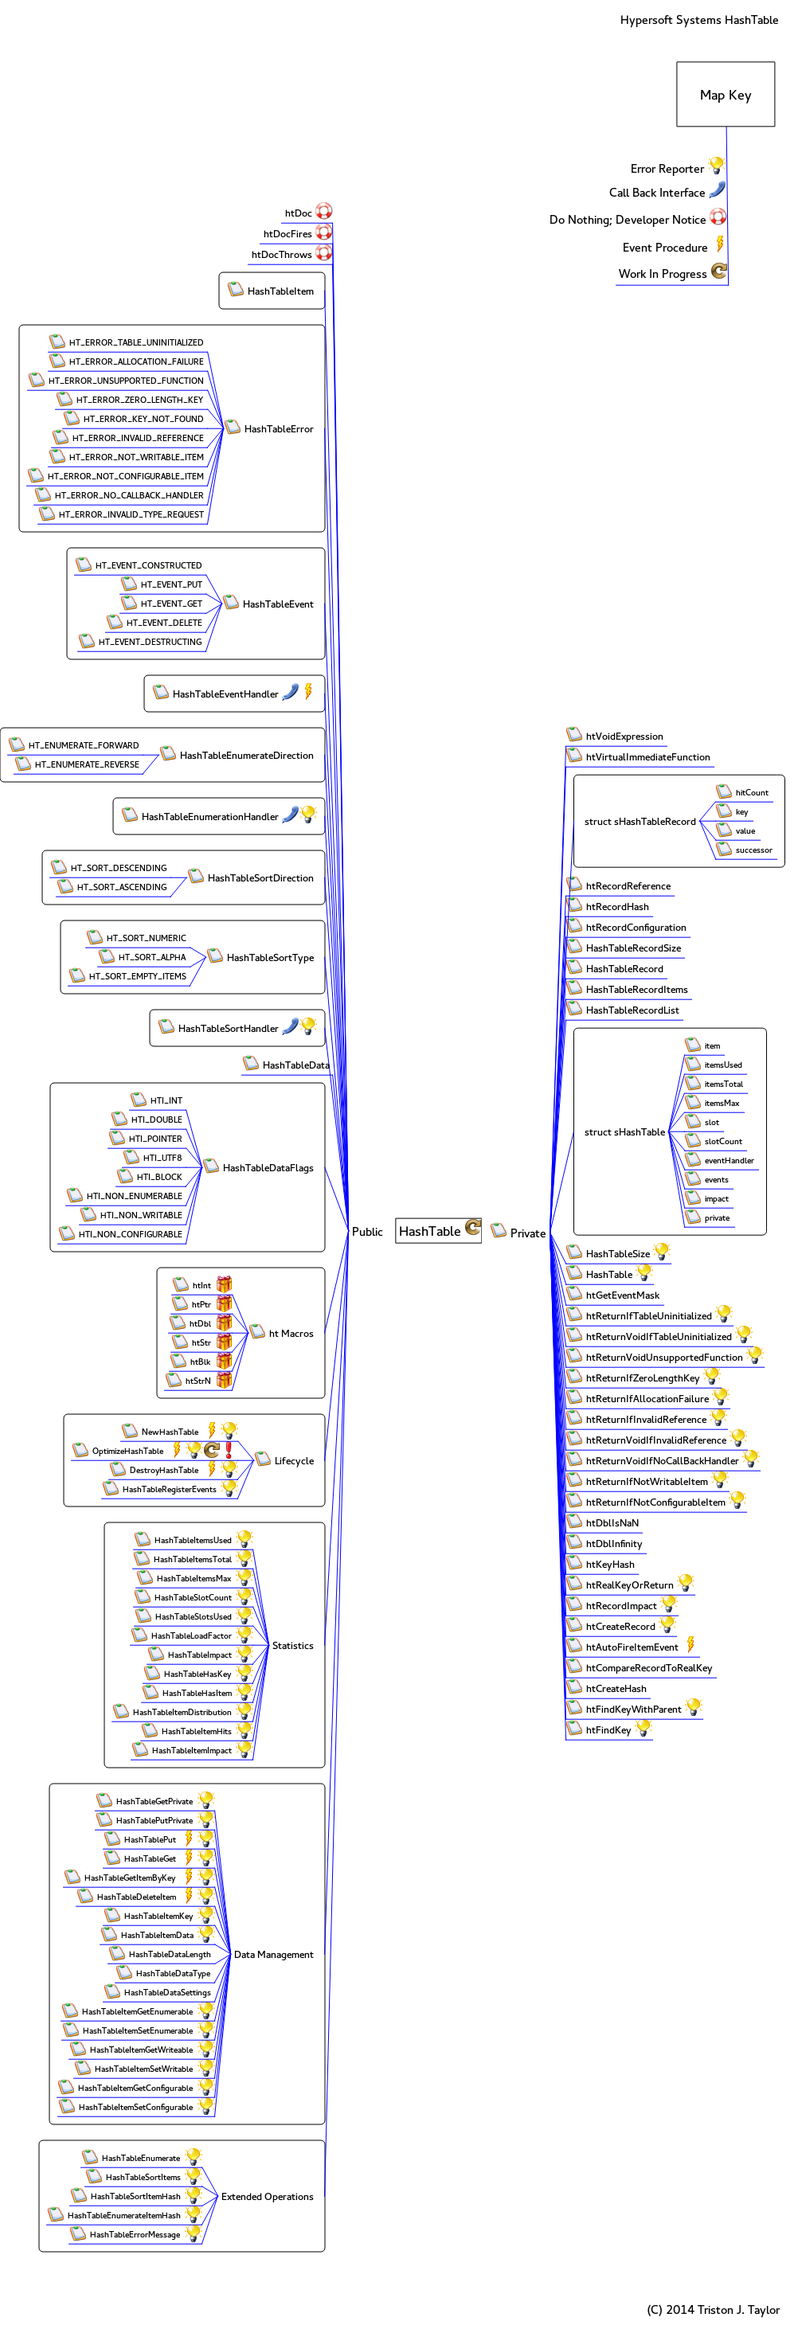
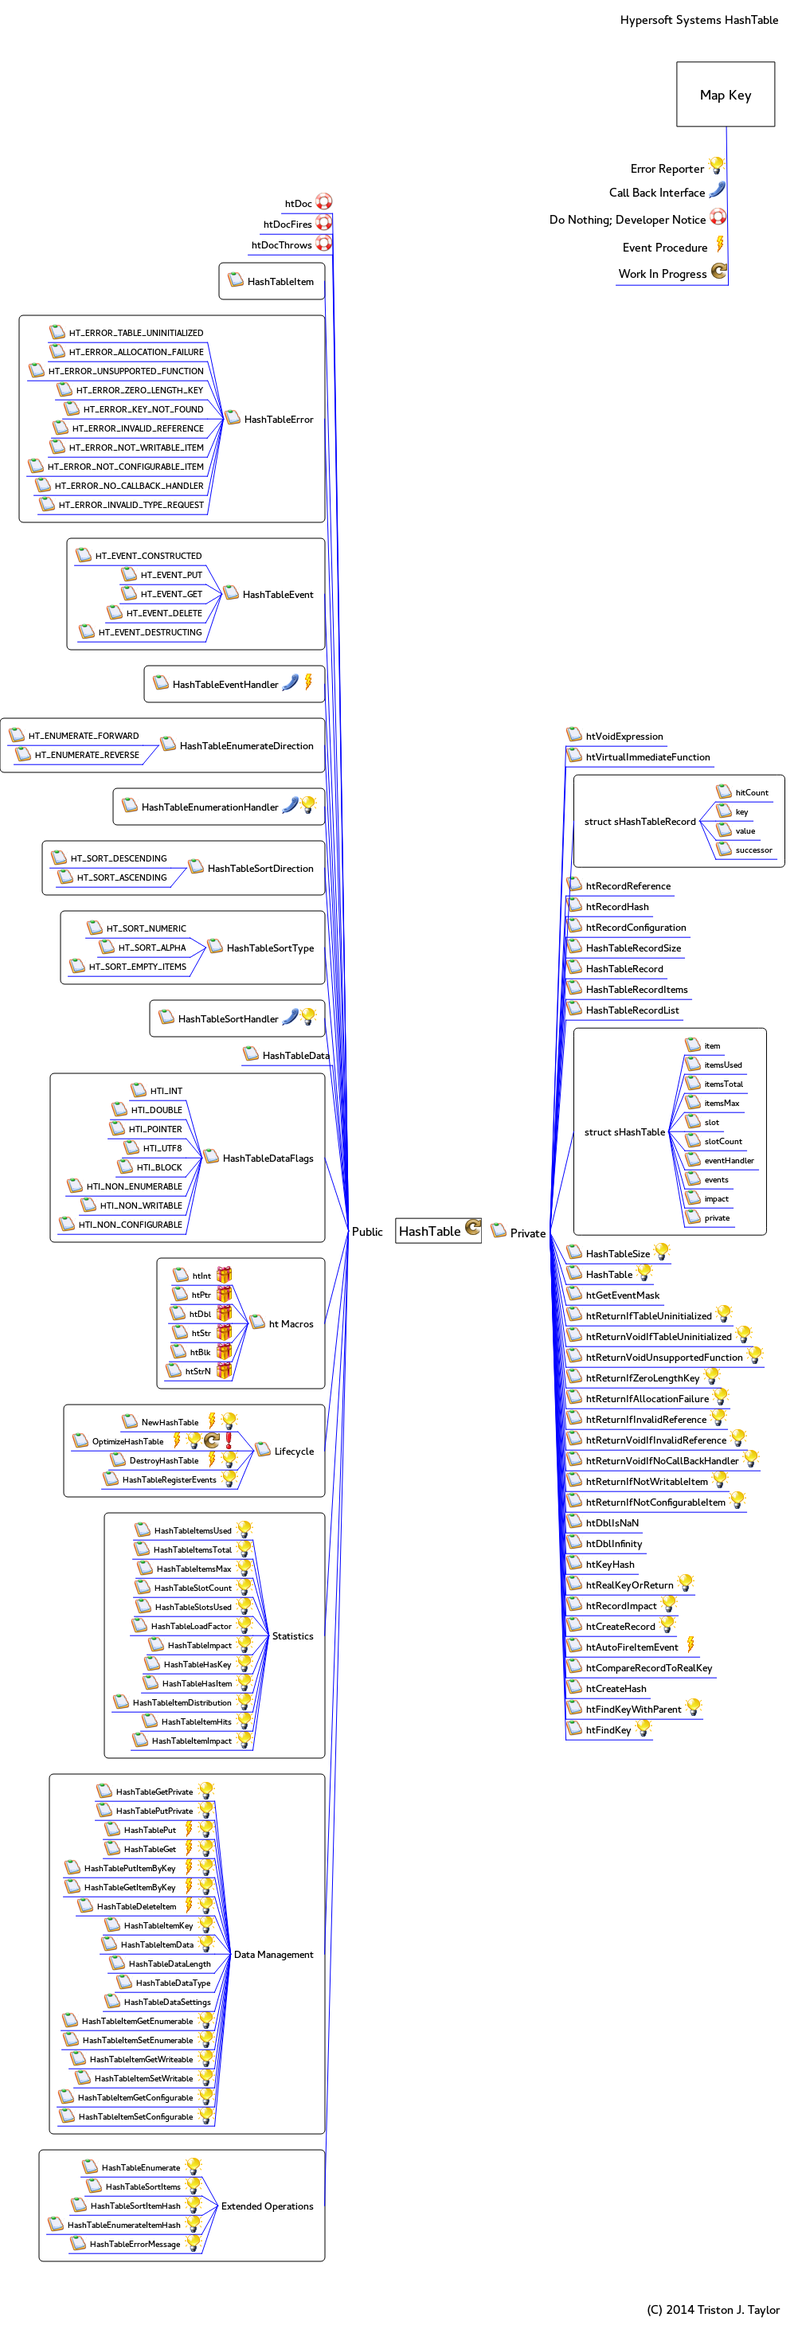
kv api meld level III

Changed region(s): [[0.0, 0.0622, 0.431, 0.9644]]

diff --git a/HashTable.html b/HashTable.html
@@ -377,67 +377,72 @@ HashTableItem HashTablePut(HashTable ht, size_t keyLength, double key, HashTable
 HashTableItem HashTableGet(HashTable ht, size_t keyLength, double key, HashTableDataFlags hint)<br/><br/>Get's an item reference by its key.<br/>
 </td></tr></table>
 </li>
-<li><span class='vym-branch3'  id='mc:1,bo:0,bo:17,bo:4'>HashTableGetItemByKey</span>
+<li><span class='vym-branch3'  id='mc:1,bo:0,bo:17,bo:4'>HashTablePutItemByKey</span>
+<table class="vym-note"><tr><td>
+HashTableItem HashTablePutItemByKey(HashTable hashTable, HashTableData realKey, size_t valueLength, double value, HashTableDataFlags valueHint)<br/><br/>Put a value into the hash table by a key reference.<br/>
+</td></tr></table>
+</li>
+<li><span class='vym-branch3'  id='mc:1,bo:0,bo:17,bo:5'>HashTableGetItemByKey</span>
 <table class="vym-note"><tr><td>
 HashTableItem HashTableGetItemByKey(HashTable hashTable, HashTableData realKey)<br/><br/>Retrieve an item index by it's key pointer.
 </td></tr></table>
 </li>
-<li><span class='vym-branch3'  id='mc:1,bo:0,bo:17,bo:5'>HashTableDeleteItem</span>
+<li><span class='vym-branch3'  id='mc:1,bo:0,bo:17,bo:6'>HashTableDeleteItem</span>
 <table class="vym-note"><tr><td>
 bool HashTableDeleteItem(HashTable ht, HashTableItem reference)<br/><br/>Removes an item from a hash table.
 </td></tr></table>
 </li>
-<li><span class='vym-branch3'  id='mc:1,bo:0,bo:17,bo:6'>HashTableItemKey</span>
+<li><span class='vym-branch3'  id='mc:1,bo:0,bo:17,bo:7'>HashTableItemKey</span>
 <table class="vym-note"><tr><td>
 HashTableData HashTableItemKey(HashTable hashTable, HashTableItem reference)<br/><br/>Returns a constant pointer to an item's key.<br/>
 </td></tr></table>
 </li>
-<li><span class='vym-branch3'  id='mc:1,bo:0,bo:17,bo:7'>HashTableItemData</span>
+<li><span class='vym-branch3'  id='mc:1,bo:0,bo:17,bo:8'>HashTableItemData</span>
 <table class="vym-note"><tr><td>
 HashTableData HashTableItemData(HashTable hashTable, HashTableItem reference)<br/><br/>Returns a constant pointer to an item's value.<br/>
 </td></tr></table>
 </li>
-<li><span class='vym-branch3'  id='mc:1,bo:0,bo:17,bo:8'>HashTableDataLength</span>
+<li><span class='vym-branch3'  id='mc:1,bo:0,bo:17,bo:9'>HashTableDataLength</span>
 <table class="vym-note"><tr><td>
 size_t HashTableDataLength(const HashTableData data)<br/><br/>Retrieves the length of the data reference.<br/>
 </td></tr></table>
 </li>
-<li><span class='vym-branch3'  id='mc:1,bo:0,bo:17,bo:9'>HashTableDataType</span>
+<li><span class='vym-branch3'  id='mc:1,bo:0,bo:17,bo:10'>HashTableDataType</span>
 <table class="vym-note"><tr><td>
 HashTableDataFlags HashTableDataType(HashTableData data)<br/><br/>Returns the type information associated with an item's value.<br/>
 </td></tr></table>
 </li>
-<li><span class='vym-branch3'  id='mc:1,bo:0,bo:17,bo:10'>HashTableDataSettings</span>
+<li><span class='vym-branch3'  id='mc:1,bo:0,bo:17,bo:11'>HashTableDataSettings</span>
 <table class="vym-note"><tr><td>
 HashTableDataFlags HashTableDataSettings(HashTableData data)<br/><br/>Retrieve all configuration flags for an item value.<br/>
 </td></tr></table>
 </li>
-<li><span class='vym-branch3'  id='mc:1,bo:0,bo:17,bo:11'>HashTableItemGetEnumerable</span>
+<li><span class='vym-branch3'  id='mc:1,bo:0,bo:17,bo:12'>HashTableItemGetEnumerable</span>
 <table class="vym-note"><tr><td>
 bool HashTableItemGetEnumerable(HashTable hashTable, HashTableItem reference)<br/><br/>Get the item's enumerable flag.<br/>
 </td></tr></table>
 </li>
-<li><span class='vym-branch3'  id='mc:1,bo:0,bo:17,bo:12'>HashTableItemSetEnumerable</span>
+<li><span class='vym-branch3'  id='mc:1,bo:0,bo:17,bo:13'>HashTableItemSetEnumerable</span>
 <table class="vym-note"><tr><td>
 bool HashTableItemSetEnumerable(HashTable hashTable, HashTableItem reference, bool value)<br/><br/>If the item is configurable, set the item's enumerable flag to value.<br/>
 </td></tr></table>
 </li>
-<li><span class='vym-branch3'  id='mc:1,bo:0,bo:17,bo:13'>HashTableItemGetWriteable</span>
+<li><span class='vym-branch3'  id='mc:1,bo:0,bo:17,bo:14'>HashTableItemGetWriteable</span>
 <table class="vym-note"><tr><td>
 bool HashTableItemGetWritable(HashTable hashTable, HashTableItem reference)<br/><br/>Get the item's writable flag.<br/>
 </td></tr></table>
 </li>
-<li><span class='vym-branch3'  id='mc:1,bo:0,bo:17,bo:14'>HashTableItemSetWritable</span>
+<li><span class='vym-branch3'  id='mc:1,bo:0,bo:17,bo:15'>HashTableItemSetWritable</span>
 <table class="vym-note"><tr><td>
 bool HashTableItemSetWritable(HashTable hashTable, HashTableItem reference, bool value)<br/><br/>If the item is configurable, set the item's writable flag to value.<br/>
 </td></tr></table>
 </li>
-<li><span class='vym-branch3'  id='mc:1,bo:0,bo:17,bo:15'>HashTableItemGetConfigurable</span>
+<li><span class='vym-branch3'  id='mc:1,bo:0,bo:17,bo:16'>HashTableItemGetConfigurable</span>
 <table class="vym-note"><tr><td>
 bool HashTableItemGetConfigurable(HashTable hashTable, HashTableItem reference)<br/><br/>Get the item's configurable flag.<br/><br/>
 </td></tr></table>
 </li>
-<li><span class='vym-branch3'  id='mc:1,bo:0,bo:17,bo:16'>HashTableItemSetConfigurable</span>
+<li><span class='vym-branch3'  id='mc:1,bo:0,bo:17,bo:17'>HashTableItemSetConfigurable</span>
 <table class="vym-note"><tr><td>
 bool HashTableItemSetConfigurable(HashTable hashTable, HashTableItem reference, bool value)<br/><br/>If the item is configurable, set the configurable flag to value.<br/>
 </td></tr></table>
@@ -734,99 +739,100 @@ HashTableRecord htFindKey(HashTable table, size_t keyLength, void * realKey)<br/
   <area shape='rect' coords='788.392,197.351,889.392,226.351' href='#mc:0,bo:4'>
   <area shape='rect' coords='496.851,1530.13,582.851,1561.13' href='#mc:1'>
   <area shape='rect' coords='438,1531.52,485,1560.52' href='#mc:1,bo:0'>
-  <area shape='rect' coords='354,254.023,396,280.023' href='#mc:1,bo:0,bo:0'>
-  <area shape='rect' coords='327,280.023,396,306.023' href='#mc:1,bo:0,bo:1'>
-  <area shape='rect' coords='312,306.023,396,332.023' href='#mc:1,bo:0,bo:2'>
-  <area shape='rect' coords='307,352.023,398,378.023' href='#mc:1,bo:0,bo:3'>
-  <area shape='rect' coords='303,525.023,398,551.023' href='#mc:1,bo:0,bo:4'>
-  <area shape='rect' coords='83,418.023,261,442.023' href='#mc:1,bo:0,bo:4,bo:0'>
-  <area shape='rect' coords='83,442.023,261,466.023' href='#mc:1,bo:0,bo:4,bo:1'>
-  <area shape='rect' coords='57,466.023,261,490.023' href='#mc:1,bo:0,bo:4,bo:2'>
-  <area shape='rect' coords='92,490.023,261,514.023' href='#mc:1,bo:0,bo:4,bo:3'>
-  <area shape='rect' coords='101,514.023,261,538.023' href='#mc:1,bo:0,bo:4,bo:4'>
-  <area shape='rect' coords='87,538.023,261,562.023' href='#mc:1,bo:0,bo:4,bo:5'>
-  <area shape='rect' coords='83,562.023,261,586.023' href='#mc:1,bo:0,bo:4,bo:6'>
-  <area shape='rect' coords='56,586.023,261,610.023' href='#mc:1,bo:0,bo:4,bo:7'>
-  <area shape='rect' coords='65,610.023,261,634.023' href='#mc:1,bo:0,bo:4,bo:8'>
-  <area shape='rect' coords='70,634.023,261,658.023' href='#mc:1,bo:0,bo:4,bo:9'>
-  <area shape='rect' coords='301,745.023,398,771.023' href='#mc:1,bo:0,bo:5'>
-  <area shape='rect' coords='116,698.023,259,722.023' href='#mc:1,bo:0,bo:5,bo:0'>
-  <area shape='rect' coords='173,722.023,259,746.023' href='#mc:1,bo:0,bo:5,bo:1'>
-  <area shape='rect' coords='173,746.023,259,770.023' href='#mc:1,bo:0,bo:5,bo:2'>
-  <area shape='rect' coords='155,770.023,259,794.023' href='#mc:1,bo:0,bo:5,bo:3'>
-  <area shape='rect' coords='120,794.023,259,818.023' href='#mc:1,bo:0,bo:5,bo:4'>
-  <area shape='rect' coords='213,858.023,354,884.023' href='#mc:1,bo:0,bo:6'>
-  <area shape='rect' coords='222,935.023,398,961.023' href='#mc:1,bo:0,bo:7'>
-  <area shape='rect' coords='32,924.023,180,948.023' href='#mc:1,bo:0,bo:7,bo:0'>
-  <area shape='rect' coords='40,948.023,180,972.023' href='#mc:1,bo:0,bo:7,bo:1'>
-  <area shape='rect' coords='174,1012.02,354,1038.02' href='#mc:1,bo:0,bo:8'>
-  <area shape='rect' coords='257,1089.02,398,1115.02' href='#mc:1,bo:0,bo:9'>
-  <area shape='rect' coords='85,1078.02,215,1102.02' href='#mc:1,bo:0,bo:9,bo:0'>
-  <area shape='rect' coords='93,1102.02,215,1126.02' href='#mc:1,bo:0,bo:9,bo:1'>
-  <area shape='rect' coords='281,1189.02,398,1215.02' href='#mc:1,bo:0,bo:10'>
-  <area shape='rect' coords='130,1166.02,239,1190.02' href='#mc:1,bo:0,bo:10,bo:0'>
-  <area shape='rect' coords='145,1190.02,239,1214.02' href='#mc:1,bo:0,bo:10,bo:1'>
-  <area shape='rect' coords='108,1214.02,239,1238.02' href='#mc:1,bo:0,bo:10,bo:2'>
-  <area shape='rect' coords='220,1278.02,354,1304.02' href='#mc:1,bo:0,bo:11'>
-  <area shape='rect' coords='326,1324.02,418,1350.02' href='#mc:1,bo:0,bo:12'>
-  <area shape='rect' coords='276,1453.02,398,1479.02' href='#mc:1,bo:0,bo:13'>
-  <area shape='rect' coords='185,1370.02,234,1394.02' href='#mc:1,bo:0,bo:13,bo:0'>
-  <area shape='rect' coords='161,1394.02,234,1418.02' href='#mc:1,bo:0,bo:13,bo:1'>
-  <area shape='rect' coords='158,1418.02,234,1442.02' href='#mc:1,bo:0,bo:13,bo:2'>
-  <area shape='rect' coords='176,1442.02,234,1466.02' href='#mc:1,bo:0,bo:13,bo:3'>
-  <area shape='rect' coords='168,1466.02,234,1490.02' href='#mc:1,bo:0,bo:13,bo:4'>
-  <area shape='rect' coords='105,1490.02,234,1514.02' href='#mc:1,bo:0,bo:13,bo:5'>
-  <area shape='rect' coords='122,1514.02,234,1538.02' href='#mc:1,bo:0,bo:13,bo:6'>
-  <area shape='rect' coords='95,1538.02,234,1562.02' href='#mc:1,bo:0,bo:13,bo:7'>
-  <area shape='rect' coords='334,1661.02,398,1687.02' href='#mc:1,bo:0,bo:14'>
-  <area shape='rect' coords='238,1602.02,270,1626.02' href='#mc:1,bo:0,bo:14,bo:0'>
-  <area shape='rect' coords='237,1626.02,270,1650.02' href='#mc:1,bo:0,bo:14,bo:1'>
-  <area shape='rect' coords='234,1650.02,270,1674.02' href='#mc:1,bo:0,bo:14,bo:2'>
-  <area shape='rect' coords='237,1674.02,270,1698.02' href='#mc:1,bo:0,bo:14,bo:3'>
-  <area shape='rect' coords='235,1698.02,270,1722.02' href='#mc:1,bo:0,bo:14,bo:4'>
-  <area shape='rect' coords='229,1722.02,270,1746.02' href='#mc:1,bo:0,bo:14,bo:5'>
-  <area shape='rect' coords='341,1821.02,398,1847.02' href='#mc:1,bo:0,bo:15'>
-  <area shape='rect' coords='174,1786.02,255,1810.02' href='#mc:1,bo:0,bo:15,bo:0'>
-  <area shape='rect' coords='112,1810.02,211,1834.02' href='#mc:1,bo:0,bo:15,bo:1'>
-  <area shape='rect' coords='159,1834.02,255,1858.02' href='#mc:1,bo:0,bo:15,bo:2'>
-  <area shape='rect' coords='150,1858.02,277,1882.02' href='#mc:1,bo:0,bo:15,bo:3'>
-  <area shape='rect' coords='338,2053.02,398,2079.02' href='#mc:1,bo:0,bo:16'>
-  <area shape='rect' coords='190,1922.02,296,1946.02' href='#mc:1,bo:0,bo:16,bo:0'>
-  <area shape='rect' coords='189,1946.02,296,1970.02' href='#mc:1,bo:0,bo:16,bo:1'>
-  <area shape='rect' coords='193,1970.02,296,1994.02' href='#mc:1,bo:0,bo:16,bo:2'>
-  <area shape='rect' coords='190,1994.02,296,2018.02' href='#mc:1,bo:0,bo:16,bo:3'>
-  <area shape='rect' coords='191,2018.02,296,2042.02' href='#mc:1,bo:0,bo:16,bo:4'>
-  <area shape='rect' coords='186,2042.02,296,2066.02' href='#mc:1,bo:0,bo:16,bo:5'>
-  <area shape='rect' coords='207,2066.02,296,2090.02' href='#mc:1,bo:0,bo:16,bo:6'>
-  <area shape='rect' coords='202,2090.02,296,2114.02' href='#mc:1,bo:0,bo:16,bo:7'>
-  <area shape='rect' coords='200,2114.02,296,2138.02' href='#mc:1,bo:0,bo:16,bo:8'>
-  <area shape='rect' coords='163,2138.02,296,2162.02' href='#mc:1,bo:0,bo:16,bo:9'>
-  <area shape='rect' coords='199,2162.02,296,2186.02' href='#mc:1,bo:0,bo:16,bo:10'>
-  <area shape='rect' coords='187,2186.02,296,2210.02' href='#mc:1,bo:0,bo:16,bo:11'>
+  <area shape='rect' coords='354,242.023,396,268.023' href='#mc:1,bo:0,bo:0'>
+  <area shape='rect' coords='327,268.023,396,294.023' href='#mc:1,bo:0,bo:1'>
+  <area shape='rect' coords='312,294.023,396,320.023' href='#mc:1,bo:0,bo:2'>
+  <area shape='rect' coords='307,340.023,398,366.023' href='#mc:1,bo:0,bo:3'>
+  <area shape='rect' coords='303,513.023,398,539.023' href='#mc:1,bo:0,bo:4'>
+  <area shape='rect' coords='83,406.023,261,430.023' href='#mc:1,bo:0,bo:4,bo:0'>
+  <area shape='rect' coords='83,430.023,261,454.023' href='#mc:1,bo:0,bo:4,bo:1'>
+  <area shape='rect' coords='57,454.023,261,478.023' href='#mc:1,bo:0,bo:4,bo:2'>
+  <area shape='rect' coords='92,478.023,261,502.023' href='#mc:1,bo:0,bo:4,bo:3'>
+  <area shape='rect' coords='101,502.023,261,526.023' href='#mc:1,bo:0,bo:4,bo:4'>
+  <area shape='rect' coords='87,526.023,261,550.023' href='#mc:1,bo:0,bo:4,bo:5'>
+  <area shape='rect' coords='83,550.023,261,574.023' href='#mc:1,bo:0,bo:4,bo:6'>
+  <area shape='rect' coords='56,574.023,261,598.023' href='#mc:1,bo:0,bo:4,bo:7'>
+  <area shape='rect' coords='65,598.023,261,622.023' href='#mc:1,bo:0,bo:4,bo:8'>
+  <area shape='rect' coords='70,622.023,261,646.023' href='#mc:1,bo:0,bo:4,bo:9'>
+  <area shape='rect' coords='301,733.023,398,759.023' href='#mc:1,bo:0,bo:5'>
+  <area shape='rect' coords='116,686.023,259,710.023' href='#mc:1,bo:0,bo:5,bo:0'>
+  <area shape='rect' coords='173,710.023,259,734.023' href='#mc:1,bo:0,bo:5,bo:1'>
+  <area shape='rect' coords='173,734.023,259,758.023' href='#mc:1,bo:0,bo:5,bo:2'>
+  <area shape='rect' coords='155,758.023,259,782.023' href='#mc:1,bo:0,bo:5,bo:3'>
+  <area shape='rect' coords='120,782.023,259,806.023' href='#mc:1,bo:0,bo:5,bo:4'>
+  <area shape='rect' coords='213,846.023,354,872.023' href='#mc:1,bo:0,bo:6'>
+  <area shape='rect' coords='222,923.023,398,949.023' href='#mc:1,bo:0,bo:7'>
+  <area shape='rect' coords='32,912.023,180,936.023' href='#mc:1,bo:0,bo:7,bo:0'>
+  <area shape='rect' coords='40,936.023,180,960.023' href='#mc:1,bo:0,bo:7,bo:1'>
+  <area shape='rect' coords='174,1000.02,354,1026.02' href='#mc:1,bo:0,bo:8'>
+  <area shape='rect' coords='257,1077.02,398,1103.02' href='#mc:1,bo:0,bo:9'>
+  <area shape='rect' coords='85,1066.02,215,1090.02' href='#mc:1,bo:0,bo:9,bo:0'>
+  <area shape='rect' coords='93,1090.02,215,1114.02' href='#mc:1,bo:0,bo:9,bo:1'>
+  <area shape='rect' coords='281,1177.02,398,1203.02' href='#mc:1,bo:0,bo:10'>
+  <area shape='rect' coords='130,1154.02,239,1178.02' href='#mc:1,bo:0,bo:10,bo:0'>
+  <area shape='rect' coords='145,1178.02,239,1202.02' href='#mc:1,bo:0,bo:10,bo:1'>
+  <area shape='rect' coords='108,1202.02,239,1226.02' href='#mc:1,bo:0,bo:10,bo:2'>
+  <area shape='rect' coords='220,1266.02,354,1292.02' href='#mc:1,bo:0,bo:11'>
+  <area shape='rect' coords='326,1312.02,418,1338.02' href='#mc:1,bo:0,bo:12'>
+  <area shape='rect' coords='276,1441.02,398,1467.02' href='#mc:1,bo:0,bo:13'>
+  <area shape='rect' coords='185,1358.02,234,1382.02' href='#mc:1,bo:0,bo:13,bo:0'>
+  <area shape='rect' coords='161,1382.02,234,1406.02' href='#mc:1,bo:0,bo:13,bo:1'>
+  <area shape='rect' coords='158,1406.02,234,1430.02' href='#mc:1,bo:0,bo:13,bo:2'>
+  <area shape='rect' coords='176,1430.02,234,1454.02' href='#mc:1,bo:0,bo:13,bo:3'>
+  <area shape='rect' coords='168,1454.02,234,1478.02' href='#mc:1,bo:0,bo:13,bo:4'>
+  <area shape='rect' coords='105,1478.02,234,1502.02' href='#mc:1,bo:0,bo:13,bo:5'>
+  <area shape='rect' coords='122,1502.02,234,1526.02' href='#mc:1,bo:0,bo:13,bo:6'>
+  <area shape='rect' coords='95,1526.02,234,1550.02' href='#mc:1,bo:0,bo:13,bo:7'>
+  <area shape='rect' coords='334,1649.02,398,1675.02' href='#mc:1,bo:0,bo:14'>
+  <area shape='rect' coords='238,1590.02,270,1614.02' href='#mc:1,bo:0,bo:14,bo:0'>
+  <area shape='rect' coords='237,1614.02,270,1638.02' href='#mc:1,bo:0,bo:14,bo:1'>
+  <area shape='rect' coords='234,1638.02,270,1662.02' href='#mc:1,bo:0,bo:14,bo:2'>
+  <area shape='rect' coords='237,1662.02,270,1686.02' href='#mc:1,bo:0,bo:14,bo:3'>
+  <area shape='rect' coords='235,1686.02,270,1710.02' href='#mc:1,bo:0,bo:14,bo:4'>
+  <area shape='rect' coords='229,1710.02,270,1734.02' href='#mc:1,bo:0,bo:14,bo:5'>
+  <area shape='rect' coords='341,1809.02,398,1835.02' href='#mc:1,bo:0,bo:15'>
+  <area shape='rect' coords='174,1774.02,255,1798.02' href='#mc:1,bo:0,bo:15,bo:0'>
+  <area shape='rect' coords='112,1798.02,211,1822.02' href='#mc:1,bo:0,bo:15,bo:1'>
+  <area shape='rect' coords='159,1822.02,255,1846.02' href='#mc:1,bo:0,bo:15,bo:2'>
+  <area shape='rect' coords='150,1846.02,277,1870.02' href='#mc:1,bo:0,bo:15,bo:3'>
+  <area shape='rect' coords='338,2041.02,398,2067.02' href='#mc:1,bo:0,bo:16'>
+  <area shape='rect' coords='190,1910.02,296,1934.02' href='#mc:1,bo:0,bo:16,bo:0'>
+  <area shape='rect' coords='189,1934.02,296,1958.02' href='#mc:1,bo:0,bo:16,bo:1'>
+  <area shape='rect' coords='193,1958.02,296,1982.02' href='#mc:1,bo:0,bo:16,bo:2'>
+  <area shape='rect' coords='190,1982.02,296,2006.02' href='#mc:1,bo:0,bo:16,bo:3'>
+  <area shape='rect' coords='191,2006.02,296,2030.02' href='#mc:1,bo:0,bo:16,bo:4'>
+  <area shape='rect' coords='186,2030.02,296,2054.02' href='#mc:1,bo:0,bo:16,bo:5'>
+  <area shape='rect' coords='207,2054.02,296,2078.02' href='#mc:1,bo:0,bo:16,bo:6'>
+  <area shape='rect' coords='202,2078.02,296,2102.02' href='#mc:1,bo:0,bo:16,bo:7'>
+  <area shape='rect' coords='200,2102.02,296,2126.02' href='#mc:1,bo:0,bo:16,bo:8'>
+  <area shape='rect' coords='163,2126.02,296,2150.02' href='#mc:1,bo:0,bo:16,bo:9'>
+  <area shape='rect' coords='199,2150.02,296,2174.02' href='#mc:1,bo:0,bo:16,bo:10'>
+  <area shape='rect' coords='187,2174.02,296,2198.02' href='#mc:1,bo:0,bo:16,bo:11'>
   <area shape='rect' coords='290,2441.02,398,2467.02' href='#mc:1,bo:0,bo:17'>
-  <area shape='rect' coords='142,2250.02,248,2274.02' href='#mc:1,bo:0,bo:17,bo:0'>
-  <area shape='rect' coords='142,2274.02,248,2298.02' href='#mc:1,bo:0,bo:17,bo:1'>
-  <area shape='rect' coords='152,2298.02,226,2322.02' href='#mc:1,bo:0,bo:17,bo:2'>
-  <area shape='rect' coords='152,2322.02,226,2346.02' href='#mc:1,bo:0,bo:17,bo:3'>
-  <area shape='rect' coords='102,2346.02,226,2370.02' href='#mc:1,bo:0,bo:17,bo:4'>
-  <area shape='rect' coords='118,2370.02,226,2394.02' href='#mc:1,bo:0,bo:17,bo:5'>
-  <area shape='rect' coords='152,2394.02,248,2418.02' href='#mc:1,bo:0,bo:17,bo:6'>
-  <area shape='rect' coords='148,2418.02,248,2442.02' href='#mc:1,bo:0,bo:17,bo:7'>
-  <area shape='rect' coords='158,2442.02,270,2466.02' href='#mc:1,bo:0,bo:17,bo:8'>
-  <area shape='rect' coords='167,2466.02,270,2490.02' href='#mc:1,bo:0,bo:17,bo:9'>
-  <area shape='rect' coords='152,2490.02,270,2514.02' href='#mc:1,bo:0,bo:17,bo:10'>
-  <area shape='rect' coords='99,2514.02,248,2538.02' href='#mc:1,bo:0,bo:17,bo:11'>
-  <area shape='rect' coords='100,2538.02,248,2562.02' href='#mc:1,bo:0,bo:17,bo:12'>
-  <area shape='rect' coords='109,2562.02,248,2586.02' href='#mc:1,bo:0,bo:17,bo:13'>
-  <area shape='rect' coords='115,2586.02,248,2610.02' href='#mc:1,bo:0,bo:17,bo:14'>
-  <area shape='rect' coords='94,2610.02,248,2634.02' href='#mc:1,bo:0,bo:17,bo:15'>
-  <area shape='rect' coords='95,2634.02,248,2658.02' href='#mc:1,bo:0,bo:17,bo:16'>
-  <area shape='rect' coords='274,2745.02,398,2771.02' href='#mc:1,bo:0,bo:18'>
-  <area shape='rect' coords='124,2698.02,232,2722.02' href='#mc:1,bo:0,bo:18,bo:0'>
-  <area shape='rect' coords='129,2722.02,232,2746.02' href='#mc:1,bo:0,bo:18,bo:1'>
-  <area shape='rect' coords='110,2746.02,232,2770.02' href='#mc:1,bo:0,bo:18,bo:2'>
-  <area shape='rect' coords='81,2770.02,232,2794.02' href='#mc:1,bo:0,bo:18,bo:3'>
-  <area shape='rect' coords='109,2794.02,232,2818.02' href='#mc:1,bo:0,bo:18,bo:4'>
+  <area shape='rect' coords='142,2238.02,248,2262.02' href='#mc:1,bo:0,bo:17,bo:0'>
+  <area shape='rect' coords='142,2262.02,248,2286.02' href='#mc:1,bo:0,bo:17,bo:1'>
+  <area shape='rect' coords='152,2286.02,226,2310.02' href='#mc:1,bo:0,bo:17,bo:2'>
+  <area shape='rect' coords='152,2310.02,226,2334.02' href='#mc:1,bo:0,bo:17,bo:3'>
+  <area shape='rect' coords='102,2334.02,226,2358.02' href='#mc:1,bo:0,bo:17,bo:4'>
+  <area shape='rect' coords='102,2358.02,226,2382.02' href='#mc:1,bo:0,bo:17,bo:5'>
+  <area shape='rect' coords='118,2382.02,226,2406.02' href='#mc:1,bo:0,bo:17,bo:6'>
+  <area shape='rect' coords='152,2406.02,248,2430.02' href='#mc:1,bo:0,bo:17,bo:7'>
+  <area shape='rect' coords='148,2430.02,248,2454.02' href='#mc:1,bo:0,bo:17,bo:8'>
+  <area shape='rect' coords='158,2454.02,270,2478.02' href='#mc:1,bo:0,bo:17,bo:9'>
+  <area shape='rect' coords='167,2478.02,270,2502.02' href='#mc:1,bo:0,bo:17,bo:10'>
+  <area shape='rect' coords='152,2502.02,270,2526.02' href='#mc:1,bo:0,bo:17,bo:11'>
+  <area shape='rect' coords='99,2526.02,248,2550.02' href='#mc:1,bo:0,bo:17,bo:12'>
+  <area shape='rect' coords='100,2550.02,248,2574.02' href='#mc:1,bo:0,bo:17,bo:13'>
+  <area shape='rect' coords='109,2574.02,248,2598.02' href='#mc:1,bo:0,bo:17,bo:14'>
+  <area shape='rect' coords='115,2598.02,248,2622.02' href='#mc:1,bo:0,bo:17,bo:15'>
+  <area shape='rect' coords='94,2622.02,248,2646.02' href='#mc:1,bo:0,bo:17,bo:16'>
+  <area shape='rect' coords='95,2646.02,248,2670.02' href='#mc:1,bo:0,bo:17,bo:17'>
+  <area shape='rect' coords='274,2757.02,398,2783.02' href='#mc:1,bo:0,bo:18'>
+  <area shape='rect' coords='124,2710.02,232,2734.02' href='#mc:1,bo:0,bo:18,bo:0'>
+  <area shape='rect' coords='129,2734.02,232,2758.02' href='#mc:1,bo:0,bo:18,bo:1'>
+  <area shape='rect' coords='110,2758.02,232,2782.02' href='#mc:1,bo:0,bo:18,bo:2'>
+  <area shape='rect' coords='81,2782.02,232,2806.02' href='#mc:1,bo:0,bo:18,bo:3'>
+  <area shape='rect' coords='109,2806.02,232,2830.02' href='#mc:1,bo:0,bo:18,bo:4'>
   <area shape='rect' coords='637.471,1533.69,690.471,1562.69' href='#mc:1,bo:1'>
   <area shape='rect' coords='732.471,911.187,837.471,937.187' href='#mc:1,bo:1,bo:0'>
   <area shape='rect' coords='732.471,937.187,896.471,963.187' href='#mc:1,bo:1,bo:1'>
@@ -884,7 +890,7 @@ HashTableRecord htFindKey(HashTable table, size_t keyLength, void * realKey)<br/
 <table class="vym-footer">   
       <tr> 
         <td class="vym-footerL">HashTable.vym</td> 
-        <td class="vym-footerC">2014-02-25</td> 
+        <td class="vym-footerC">2014-02-26</td> 
         <td class="vym-footerR"> <a href='http://www.insilmaril.de/vym'>vym 2.2.4</a></td> 
       </tr> 
      </table>

diff --git a/src/HashTable.c b/src/HashTable.c
@@ -585,6 +585,25 @@ HashTableItem HashTablePut
 
 }
 
+HashTableItem HashTablePutItemByKey
+(
+	HashTable ht,
+	HashTableData realKey,
+	size_t valueLength,
+	double value,
+	HashTableDataFlags valueHint
+) {
+
+	if (! realKey) {
+		errno = HT_ERROR_ZERO_LENGTH_KEY; return HT_ERROR_SENTINEL;
+	}
+
+	return HashTablePut(ht, varlen(realKey), (double)(size_t)realKey, vartype(realKey),
+		valueLength, value, valueHint
+	);
+
+}
+
 HashTableItem HashTableGetItemByKey
 (
 	HashTable ht,

diff --git a/src/HashTable.h b/src/HashTable.h
@@ -264,6 +264,15 @@ HashTableItem HashTablePut
 	HashTableDataFlags valueHint
 );
 
+HashTableItem HashTablePutItemByKey
+(
+	HashTable hashTable,
+	HashTableData realKey,
+	size_t valueLength,
+	double value,
+	HashTableDataFlags valueHint
+);
+
 HashTableItem HashTableGetItemByKey
 (
 	HashTable hashTable,
